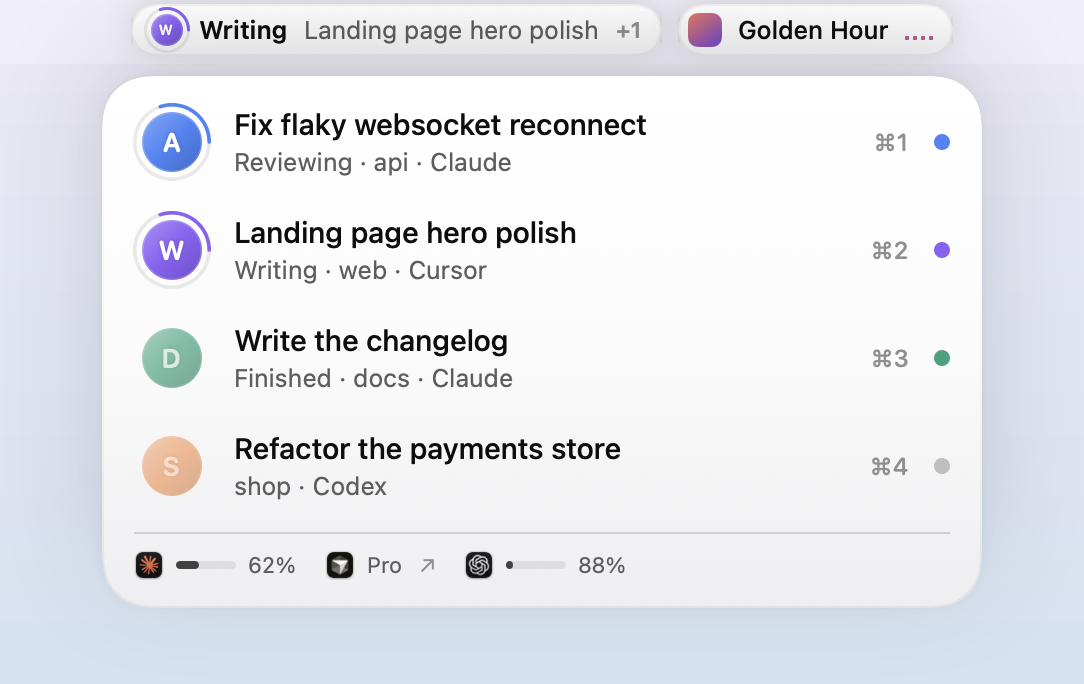
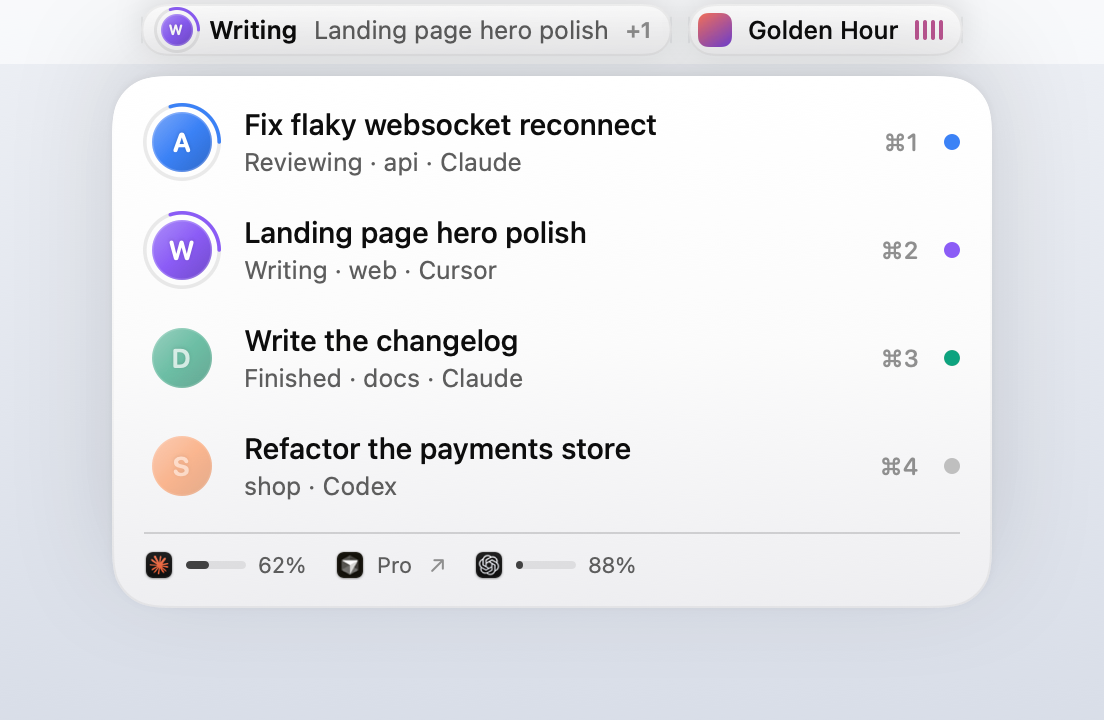
README for the first public release; regenerated screenshots
- DMG install (Open Anyway once), self-updates, build from source
- Codex approvals/replies via hooks, usage history, alerts, sounds, multiple accounts
- Compiled hook helper in How it works; accurate network/storage notes
- scripts/screenshots.sh + compose-shot.swift regenerate docs/images from demo mode
- Demo usage history; opaque chart tooltip; 'unpriced' instead of $0.00

Changed region(s): [[0.0913, 0.0, 0.8828, 0.8904], [0.7915, 0.1228, 0.9133, 0.8289]]

diff --git a/Sources/Lintel/Agents/UsageHistory.swift b/Sources/Lintel/Agents/UsageHistory.swift
@@ -299,8 +299,58 @@ final class UsageHistory {
 
     // MARK: Queries
 
+    /// Made-up history for README screenshots (`simulate.sh debug demo`).
+    private var demoUntil = Date.distantPast
+    func showDemo(seconds: Double = 30) { demoUntil = Date().addingTimeInterval(seconds); revision += 1 }
+
+    private func demoSummary(_ range: Range) -> Summary {
+        var s = Summary()
+        let cal = Calendar.current
+        let now = Date()
+        let count = Int(range.seconds / range.step)
+        var slot = range == .day ? cal.dateInterval(of: .hour, for: now.addingTimeInterval(-range.seconds))!.start
+                                 : cal.startOfDay(for: now.addingTimeInterval(-range.seconds))
+        var tools: [AgentKind: ToolTotal] = [:]
+        for i in 0...count {
+            // Smooth, believable waves: busy weekdays / afternoons, quiet nights and weekends.
+            let x = Double(i)
+            let claudeK = max(0, 0.55 + 0.45 * sin(x * 0.9) + 0.25 * sin(x * 2.3 + 1))
+            let cursorK = max(0, 0.35 + 0.35 * sin(x * 0.7 + 2))
+            let codexK = max(0, 0.2 + 0.25 * sin(x * 1.3 + 4))
+            let scale = range == .day ? 1.0 : 9.0
+            for (tool, k, perM) in [(AgentKind.claude, claudeK, 0.42), (.cursor, cursorK, 0.0), (.codex, codexK, 0.0)] {
+                let tokens = Int(k * scale * 2_600_000)
+                let cost = tool == .claude ? Double(tokens) / 1_000_000 * perM : 0
+                s.points.append(Point(date: slot, tool: tool, tokens: tokens, cost: cost))
+                tools[tool, default: ToolTotal(tool: tool)].tokens += tokens
+                tools[tool, default: ToolTotal(tool: tool)].cost += cost
+                if tool != .claude { tools[tool, default: ToolTotal(tool: tool)].unpricedTokens += tokens }
+            }
+            slot = cal.date(byAdding: range == .day ? .hour : .day, value: 1, to: slot)!
+        }
+        let sessions = [AgentKind.claude: range == .day ? 6 : 14 * count / 7 + 3, .cursor: range == .day ? 3 : 5 * count / 7 + 1,
+                        .codex: range == .day ? 2 : 3 * count / 7 + 1]
+        for k in tools.keys { tools[k]!.sessions = sessions[k] ?? 0 }
+        s.tools = tools.values.sorted { $0.tokens > $1.tokens }
+        let claude = tools[.claude] ?? ToolTotal(tool: .claude)
+        s.cost = claude.cost
+        s.sessions = sessions.values.reduce(0, +)
+        s.models = [
+            ModelTotal(tool: .claude, model: "claude-opus-5-5", tokens: Int(Double(claude.tokens) * 0.7), cost: claude.cost * 0.82),
+            ModelTotal(tool: .claude, model: "claude-sonnet-5-5", tokens: Int(Double(claude.tokens) * 0.3), cost: claude.cost * 0.18),
+            ModelTotal(tool: .cursor, model: "composer-2", tokens: tools[.cursor]?.tokens ?? 0, cost: nil),
+            ModelTotal(tool: .codex, model: "gpt-5.6-luna", tokens: tools[.codex]?.tokens ?? 0, cost: nil),
+        ]
+        let total = s.tools.reduce(0) { $0 + $1.tokens }
+        s.totals = TokenCounts(input: total / 60, output: total / 300, cacheRead: total - total / 60 - total / 300 - total / 40,
+                               cacheWrite5m: total / 40)
+        s.savings = claude.cost * 6.5
+        return s
+    }
+
     func summary(_ range: Range) -> Summary {
         _ = revision
+        if Date() < demoUntil { return demoSummary(range) }
         let now = Date()
         let start = now.addingTimeInterval(-range.seconds)
         let startHour = Int(start.timeIntervalSince1970 / 3600)

diff --git a/scripts/compose-shot.swift b/scripts/compose-shot.swift
@@ -1,0 +1,32 @@
+// Crops a transparent panel snapshot around the bar and card and puts it on a screen-like backdrop.
+// usage: swift scripts/compose-shot.swift <in.png> <out.png> <x> <y> <w> <h> <dark|light>   (rect in points)
+import AppKit
+
+let a = CommandLine.arguments
+guard a.count == 8, let src = NSImage(contentsOfFile: a[1]),
+      let x = Double(a[3]), let y = Double(a[4]), let w = Double(a[5]), let h = Double(a[6]) else {
+    FileHandle.standardError.write("usage: compose-shot <in> <out> x y w h dark|light\n".data(using: .utf8)!)
+    exit(1)
+}
+let dark = a[7] == "dark"
+guard let cg = src.cgImage(forProposedRect: nil, context: nil, hints: nil) else { exit(1) }
+let scale = Double(cg.width) / src.size.width
+// Snapshot coordinates have a top-left origin, like SwiftUI.
+let crop = CGRect(x: x * scale, y: y * scale, width: w * scale, height: h * scale).integral
+guard let piece = cg.cropping(to: crop) else { exit(1) }
+
+let size = NSSize(width: crop.width, height: crop.height)
+let out = NSImage(size: size, flipped: false) { r in
+    // Desktop-like gradient with a menu bar band at the top.
+    let colors = dark ? [NSColor(srgbRed: 0.16, green: 0.15, blue: 0.24, alpha: 1), NSColor(srgbRed: 0.07, green: 0.08, blue: 0.13, alpha: 1)]
+                      : [NSColor(srgbRed: 0.93, green: 0.94, blue: 0.96, alpha: 1), NSColor(srgbRed: 0.85, green: 0.87, blue: 0.91, alpha: 1)]
+    NSGradient(colors: colors)!.draw(in: r, angle: -90)
+    let bar = 32 * scale
+    (dark ? NSColor(white: 0.08, alpha: 0.85) : NSColor(white: 1, alpha: 0.6)).setFill()
+    NSRect(x: 0, y: r.height - bar, width: r.width, height: bar).fill()
+    NSGraphicsContext.current?.cgContext.draw(piece, in: r)
+    return true
+}
+guard let tiff = out.tiffRepresentation, let rep = NSBitmapImageRep(data: tiff),
+      let png = rep.representation(using: .png, properties: [:]) else { exit(1) }
+try png.write(to: URL(fileURLWithPath: a[2]))

diff --git a/Sources/Lintel/UI/UsageDashboard.swift b/Sources/Lintel/UI/UsageDashboard.swift
@@ -203,7 +203,9 @@ struct UsageDashboard: View {
         .font(.system(size: 12))
         .padding(.horizontal, 10).padding(.vertical, 8)
         .frame(minWidth: 150)
-        .background(RoundedRectangle(cornerRadius: 10, style: .continuous).fill(Theme.raised))
+        // Opaque, so the chart lines don't show through.
+        .background(RoundedRectangle(cornerRadius: 10, style: .continuous)
+            .fill(Theme.dynamic(light: .white, dark: NSColor(white: 0.16, alpha: 1))))
         .overlay(RoundedRectangle(cornerRadius: 10, style: .continuous).strokeBorder(Theme.hairline))
         .shadow(color: .black.opacity(0.18), radius: 8, y: 3)
         .fixedSize()
@@ -219,7 +221,7 @@ struct UsageDashboard: View {
                     Text(t.tool.label).font(.system(size: 13, weight: .medium)).foregroundStyle(Theme.primary)
                     Text("\(t.sessions) sessions").font(.system(size: 11.5)).foregroundStyle(Theme.tertiary)
                 }
-                Text("\(percent(share)) of \(showCost ? "cost" : "tokens") · " + (showCost ? "\(formatTokens(t.tokens)) tokens" : money(t.cost)))
+                Text("\(percent(share)) of \(showCost ? "cost" : "tokens") · " + (showCost ? "\(formatTokens(t.tokens)) tokens" : (t.cost == 0 && t.unpricedTokens > 0 ? "unpriced" : money(t.cost))))
                     .font(.system(size: 11.5)).foregroundStyle(Theme.tertiary)
             }
             Spacer()

diff --git a/Sources/Lintel/App/AppDelegate.swift b/Sources/Lintel/App/AppDelegate.swift
@@ -116,7 +116,7 @@ final class AppDelegate: NSObject, NSApplicationDelegate, NSMenuDelegate {
                 let obj: [String: Any] = [
                     "expanded": "\(String(describing: IslandModel.shared.expanded))",
                     "selected": IslandModel.shared.selectedSessionID ?? "",
-                    "cardRect": "\(IslandModel.shared.cardRect)", "agentRect": "\(IslandModel.shared.agentPillRect)",
+                    "cardRect": "\(IslandModel.shared.cardRect)", "agentRect": "\(IslandModel.shared.agentPillRect)", "musicRect": "\(IslandModel.shared.musicPillRect)",
                     "finishedFlash": st.finishedFlash ?? "",
                     "sessions": st.sessions.map { ["id": $0.id, "status": "\($0.status)", "title": $0.displayTitle, "phase": $0.phase.label] },
                     "pending": st.pending.map { ["session": $0.sessionID, "blocking": $0.isBlocking] },

diff --git a/Sources/Lintel/Agents/AgentStore.swift b/Sources/Lintel/Agents/AgentStore.swift
@@ -640,6 +640,7 @@ final class AgentStore {
         done.turnEndedAt = Date()
         _ = make("demo-4", .codex, "Refactor the payments store", "/Users/you/shop", .idle, .reasoning)
         UsageStore.shared.showDemo()
+        UsageHistory.shared.showDemo(seconds: seconds)
     }
 
     /// Adds a demo prompt for a screenshot: "permission" or "question".
